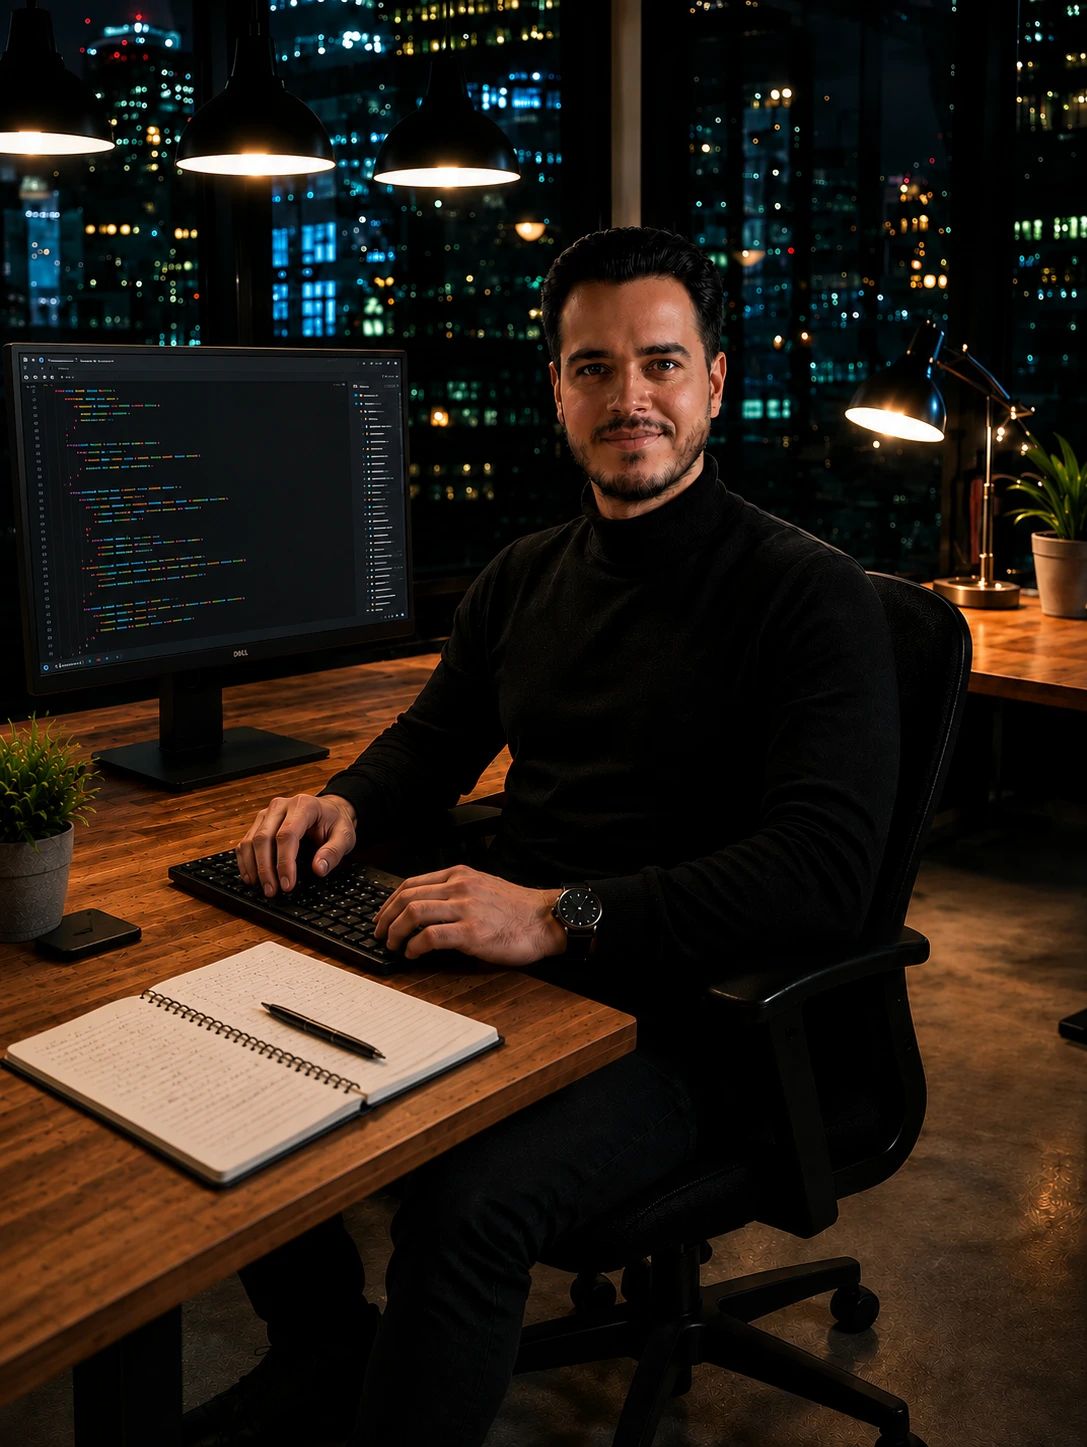
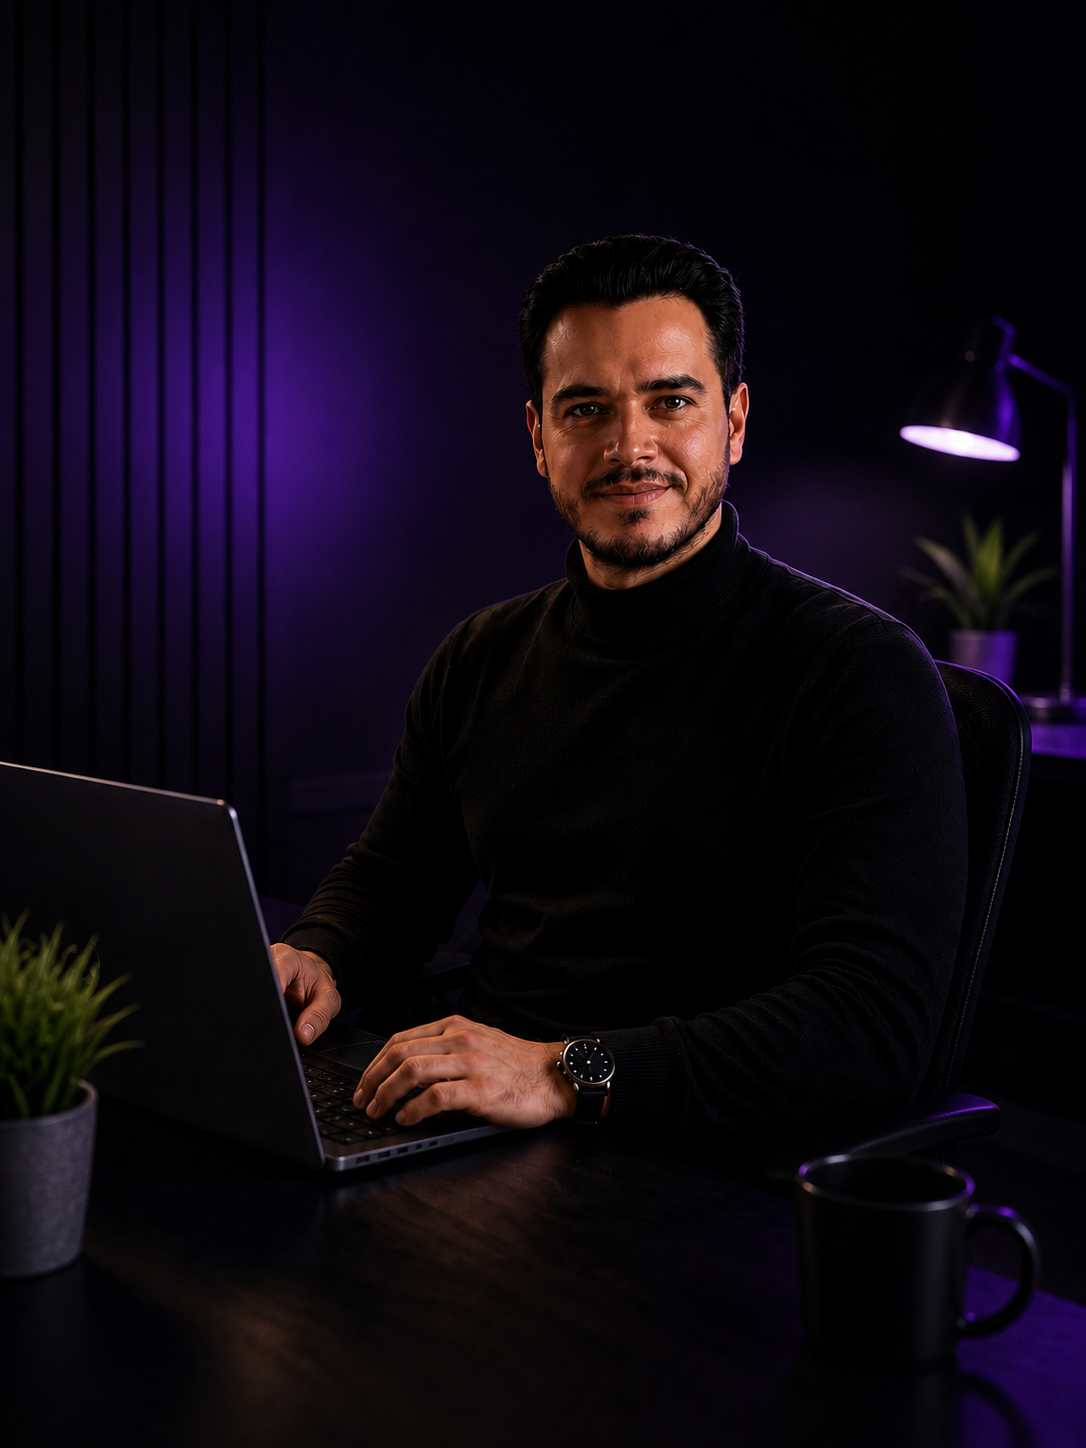
Add files via upload

diff --git a/assets/style.css b/assets/style.css
@@ -136,7 +136,7 @@ main{ position:relative; z-index:2; max-width:1180px; margin:0 auto; padding:0 2
 /* HERO / ABOUT */
 .about-body{ display:flex; gap:48px; align-items:center; }
 .avatar-col{ flex:0 0 240px; display:flex; flex-direction:column; align-items:center; gap:22px; }
-.avatar-frame{ position:relative; width:270px; height:330px;background-image: url(./about.webp);background-position: center;background-size: cover;background-repeat: no-repeat;border-radius: 15px;border:1px dotted #f0b429 }
+.avatar-frame{ position:relative; width:270px; height:330px;background-image: url(./about.webp);background-position: center;background-size: cover;background-repeat: no-repeat;border-radius: 15px}
 .avatar-mono{
   width:100%; height:100%; border-radius:26px;
   background:linear-gradient(145deg, var(--accent-soft), transparent);
